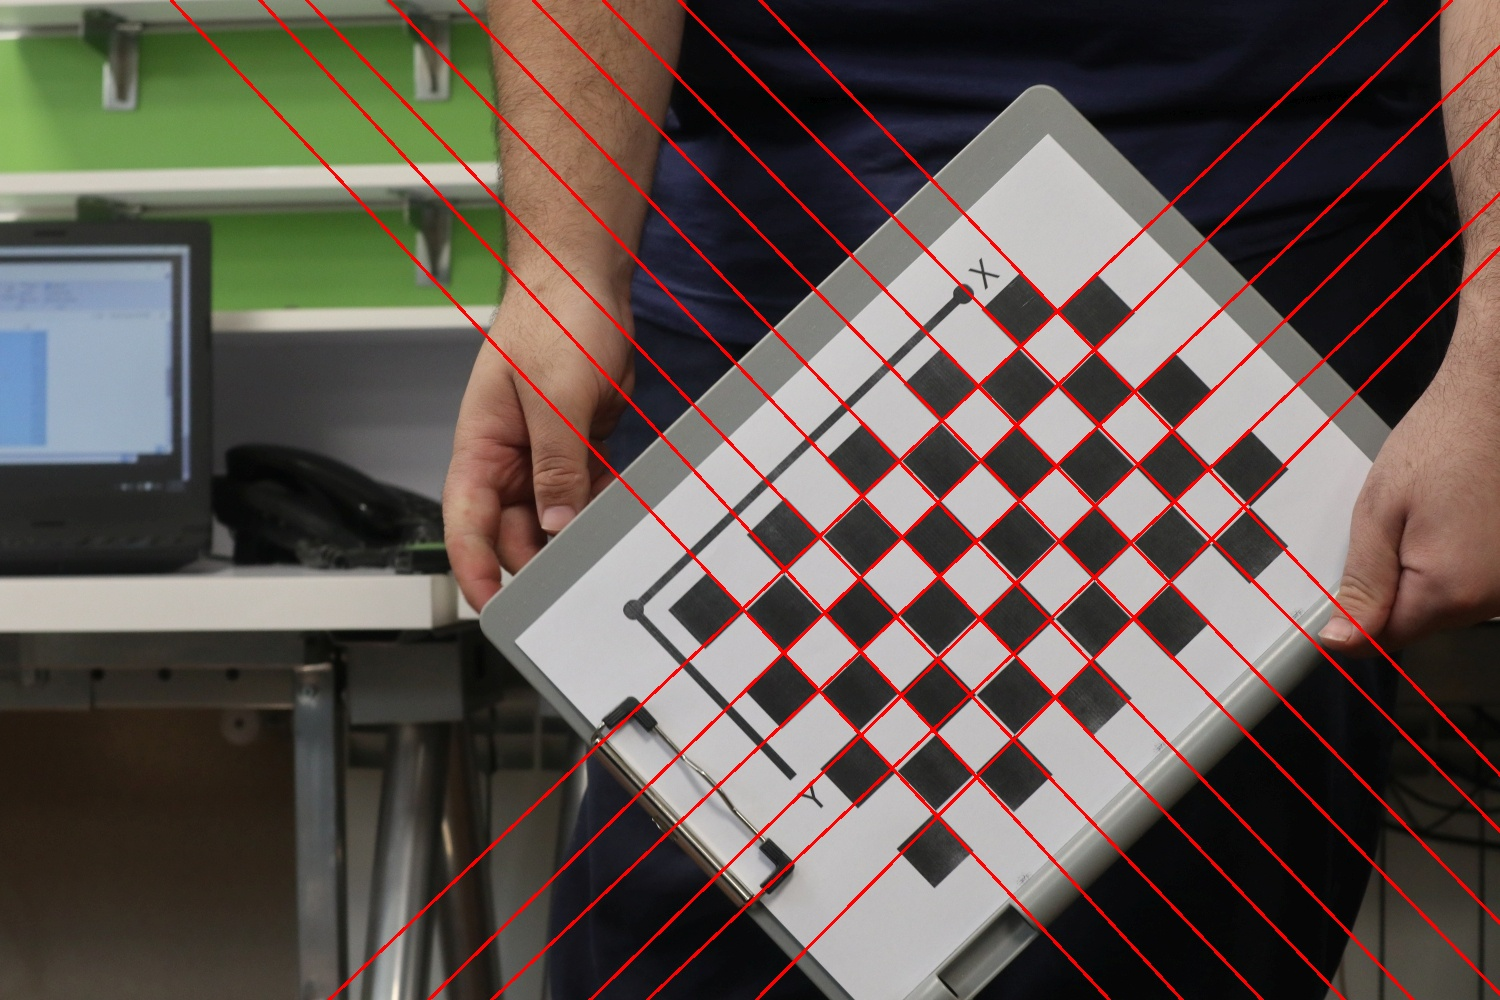
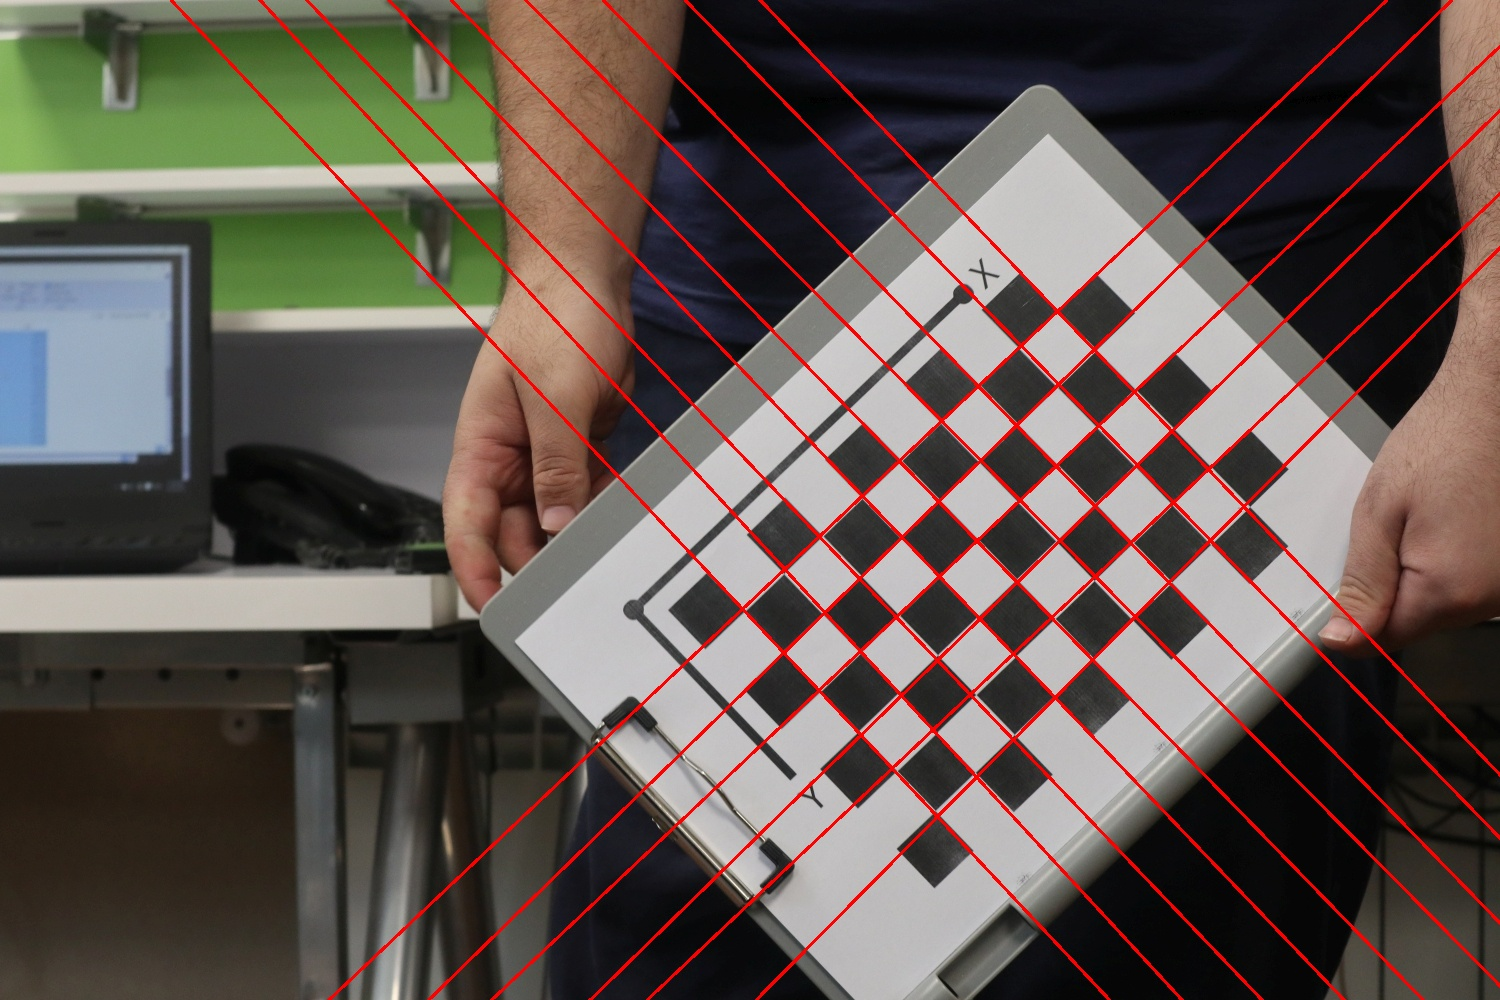
results added - minor changes in q1

diff --git a/HW3/q1.py b/HW3/q1.py
@@ -126,7 +126,7 @@ def findDistinctAngles(angles, common_lines):
     distinct_angles = []
     angles_appear = []
 
-    distinct_angles.append(angles1[0])
+    distinct_angles.append(angles[0])
     angles_appear.append(1)
 
     for i in range(1, len(angles)):
@@ -292,7 +292,6 @@ def deleteSimillarLines(rhos, thetas, rho_thr, theta_thr):
             final_thetas.append(thetas[i])
             final_rhos.append(rhos[i])
     return final_rhos, final_thetas
-
 #/ ---------------------------------------- MAIN ---------------------------------------------- /#
 
 img1 = cv2.imread('./im01.jpg', cv2.IMREAD_COLOR)
@@ -329,29 +328,15 @@ cv2.imwrite('res03-hough-space.jpg', hough_space1)
 hough_space2 = utl.scaleIntensities(voting_mat2)
 cv2.imwrite('res04-hough-space.jpg', hough_space2)
 
-#np.save('voting1.npy', voting_mat1)
-#np.save('space1.npy', len_angle_spc1)
-
-#np.save('voting2.npy', voting_mat2)
-#np.save('space2.npy', len_angle_spc2)
-
-#voting_mat1 = np.load('voting1.npy')
-#len_angle_spc1 = np.load('space1.npy')
-
-#voting_mat2 = np.load('voting2.npy')
-#len_angle_spc2 = np.load('space2.npy')
-
 print("Drawing found lines in images and saving ...")
 max_indices1 = utl.findLocalMax(voting_mat1, 0.47 * np.amax(voting_mat1), 0.1)
 max_indices2 = utl.findLocalMax(voting_mat2, 0.47 * np.amax(voting_mat2), 0.1)
 
-#print(max_indices.shape)
 rhos1 = max_indices1[0, :]
 angles1 = max_indices1[1, :]
 
 rhos2 = max_indices2[0, :]
 angles2 = max_indices2[1, :]
-#print(angles)
 
 img1_raw_lines = lineDrawer(img1, len_angle_spc1[rhos1, angles1, 0], len_angle_spc1[rhos1, angles1, 1], 2)
 cv2.imwrite('res05-lines.jpg', img1_raw_lines)
@@ -367,7 +352,6 @@ distinct_angles2, angles_appear2 = findDistinctAngles(angles2, common_lines)
 
 # how many choices of threshold is available for repeatness of lines
 possible_choices = 4
-
 
 angle_thr_ind1 = np.unravel_index(np.argsort(angles_appear1, axis=None)[-possible_choices:], 
                                  len(angles_appear1))[0][0]
@@ -395,8 +379,8 @@ img_vel2 = img_hsv2[:, :, -1]
 line_len = 15
 neigh_num = 15
 
-chess_square_thr1 = calMaxColorThreshold(img_vel1, int(1.6*(line_len + neigh_num)))
-chess_square_thr2 = calMaxColorThreshold(img_vel2, int(1.6*(line_len + neigh_num)))
+chess_square_thr1 = calMaxColorThreshold(img_vel1, int(1.7*(line_len + neigh_num)))
+chess_square_thr2 = calMaxColorThreshold(img_vel2, int(1.7*(line_len + neigh_num)))
 
 rhos1, thetas1 = passesChessArea(img_vel1, rhos1, thetas1, line_len, 
                                  neigh_num, chess_square_thr1)

diff --git a/HW3/q2.py b/HW3/q2.py
@@ -78,7 +78,7 @@ def updateTexture(syn_tex, tex, M_p, N_p, M_i, N_i,
 
         mask_template = np.ones(patch.shape, dtype=np.uint8)
         mask_template[x_thr:, y_thr:, :] = np.zeros((M_p-x_thr, N_p-y_thr, 3), dtype=np.uint8)
-        
+
         matching_result = cv2.matchTemplate(tex, patch, cv2.TM_SQDIFF_NORMED, mask=mask_template)
         matching_indices = np.unravel_index(np.argsort(matching_result, axis=None)[0:rand_sel], 
                                                        matching_result.shape)
@@ -111,11 +111,6 @@ def updateTexture(syn_tex, tex, M_p, N_p, M_i, N_i,
         for i in range(M_p):
             mat_path_y[i, path_y[i, 0]] = 1
 
-        repr = np.zeros((M_p, N_p, 3), dtype=int)
-        repr[:, :, 0] = mat_path_x
-        repr[:, :, 2] = mat_path_y
-        repr *= 255
-        
         # mat_final showes boundries of patches
         tmp_mat = mat_path_x[0:x_thr, 0:y_thr] & mat_path_y[0:x_thr, 0:y_thr]
         common_points = np.nonzero(tmp_mat == 1)
@@ -163,8 +158,7 @@ def updateTexture(syn_tex, tex, M_p, N_p, M_i, N_i,
 
 #/ ------------------- MAIN --------------- /#
 
-img_index = 13
-texture = cv2.imread('./Textures/texture{}.jpg'.format(img_index), cv2.IMREAD_COLOR)
+texture = cv2.imread('./texture06.jpg', cv2.IMREAD_COLOR)
 print("Image loaded successfully, starting algorithm ...")
 # PARAMETERS:
 
@@ -216,6 +210,6 @@ for i in range((M_i - M_p) // (M_p - x_thr) + 1):
             updateTexture(syn_texture, texture, M_p, N_p,
                         M_i, N_i, x_start, x_end, y_start, y_end,
                         x_thr, y_thr, random_select)
-            
-cv2.imwrite('texture{}.jpg'.format(img_index), syn_texture)
+
+cv2.imwrite('res14.jpg', syn_texture)
 print("Done!")
